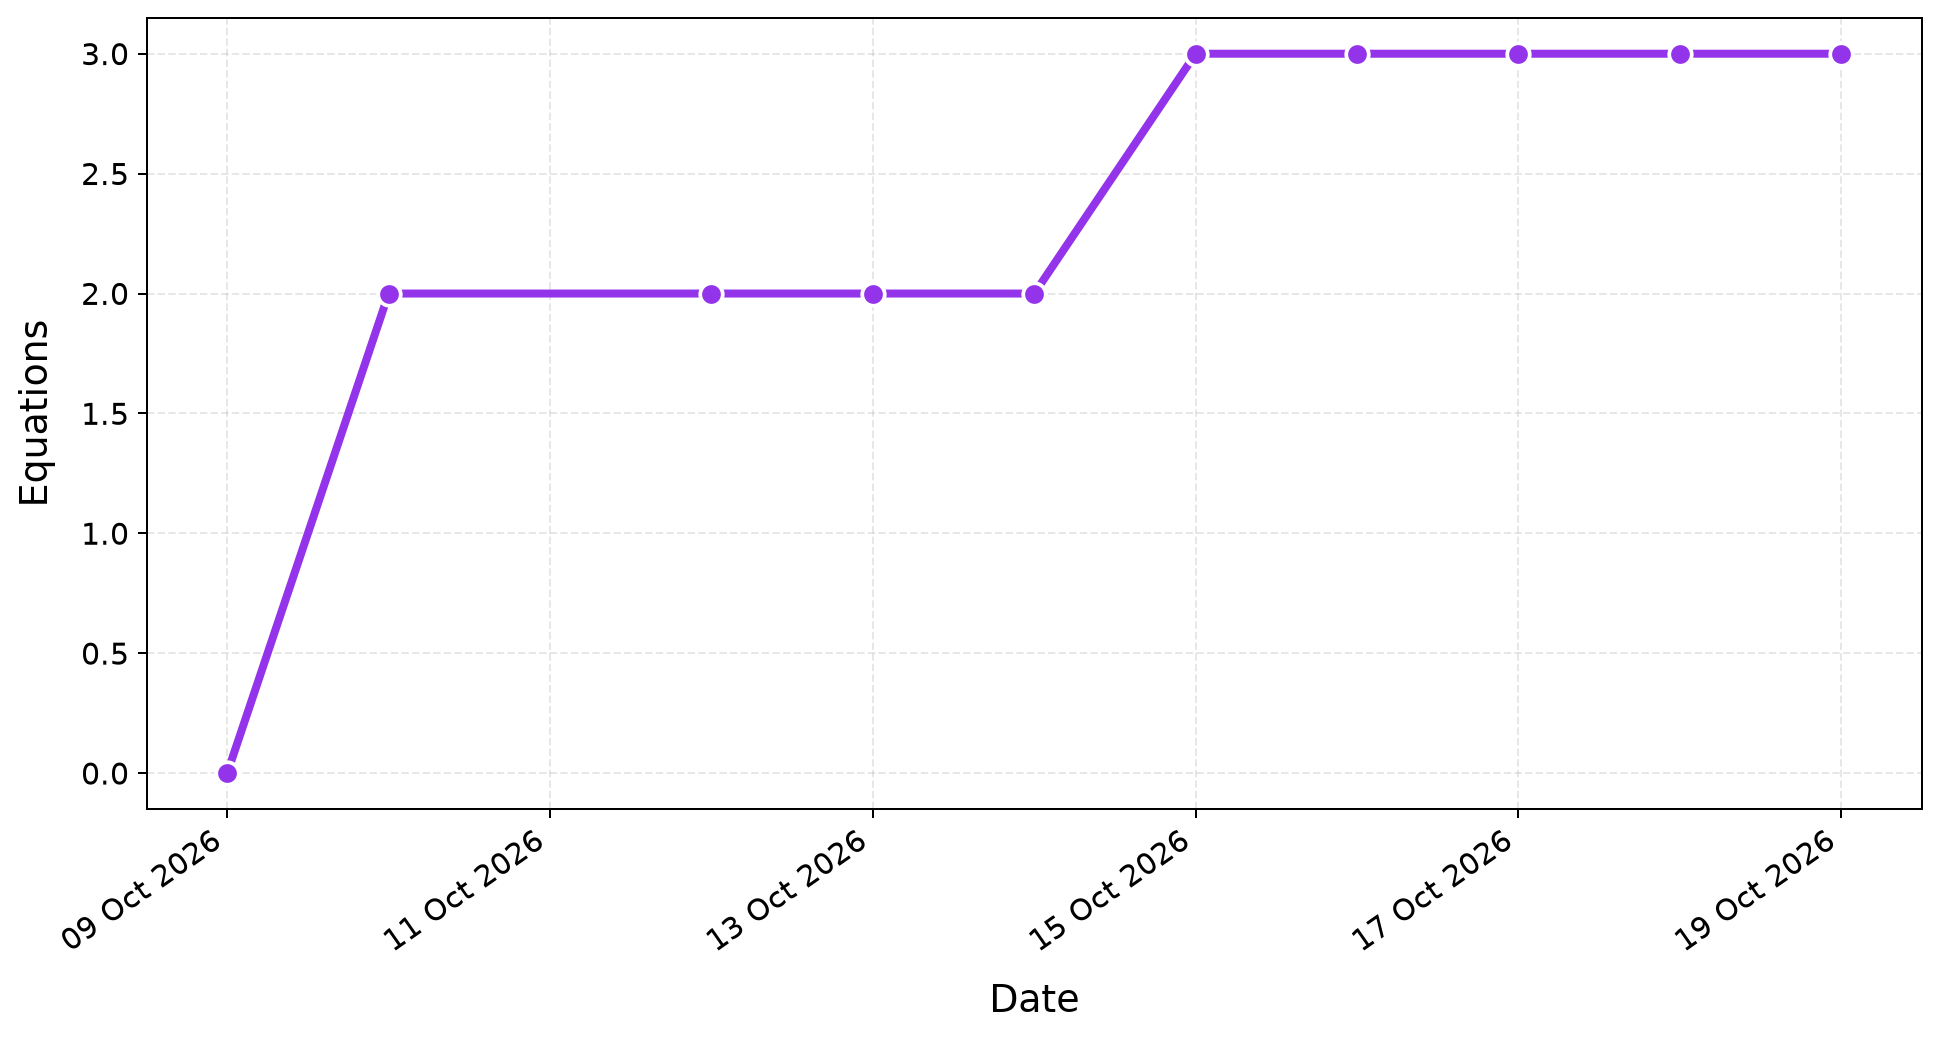
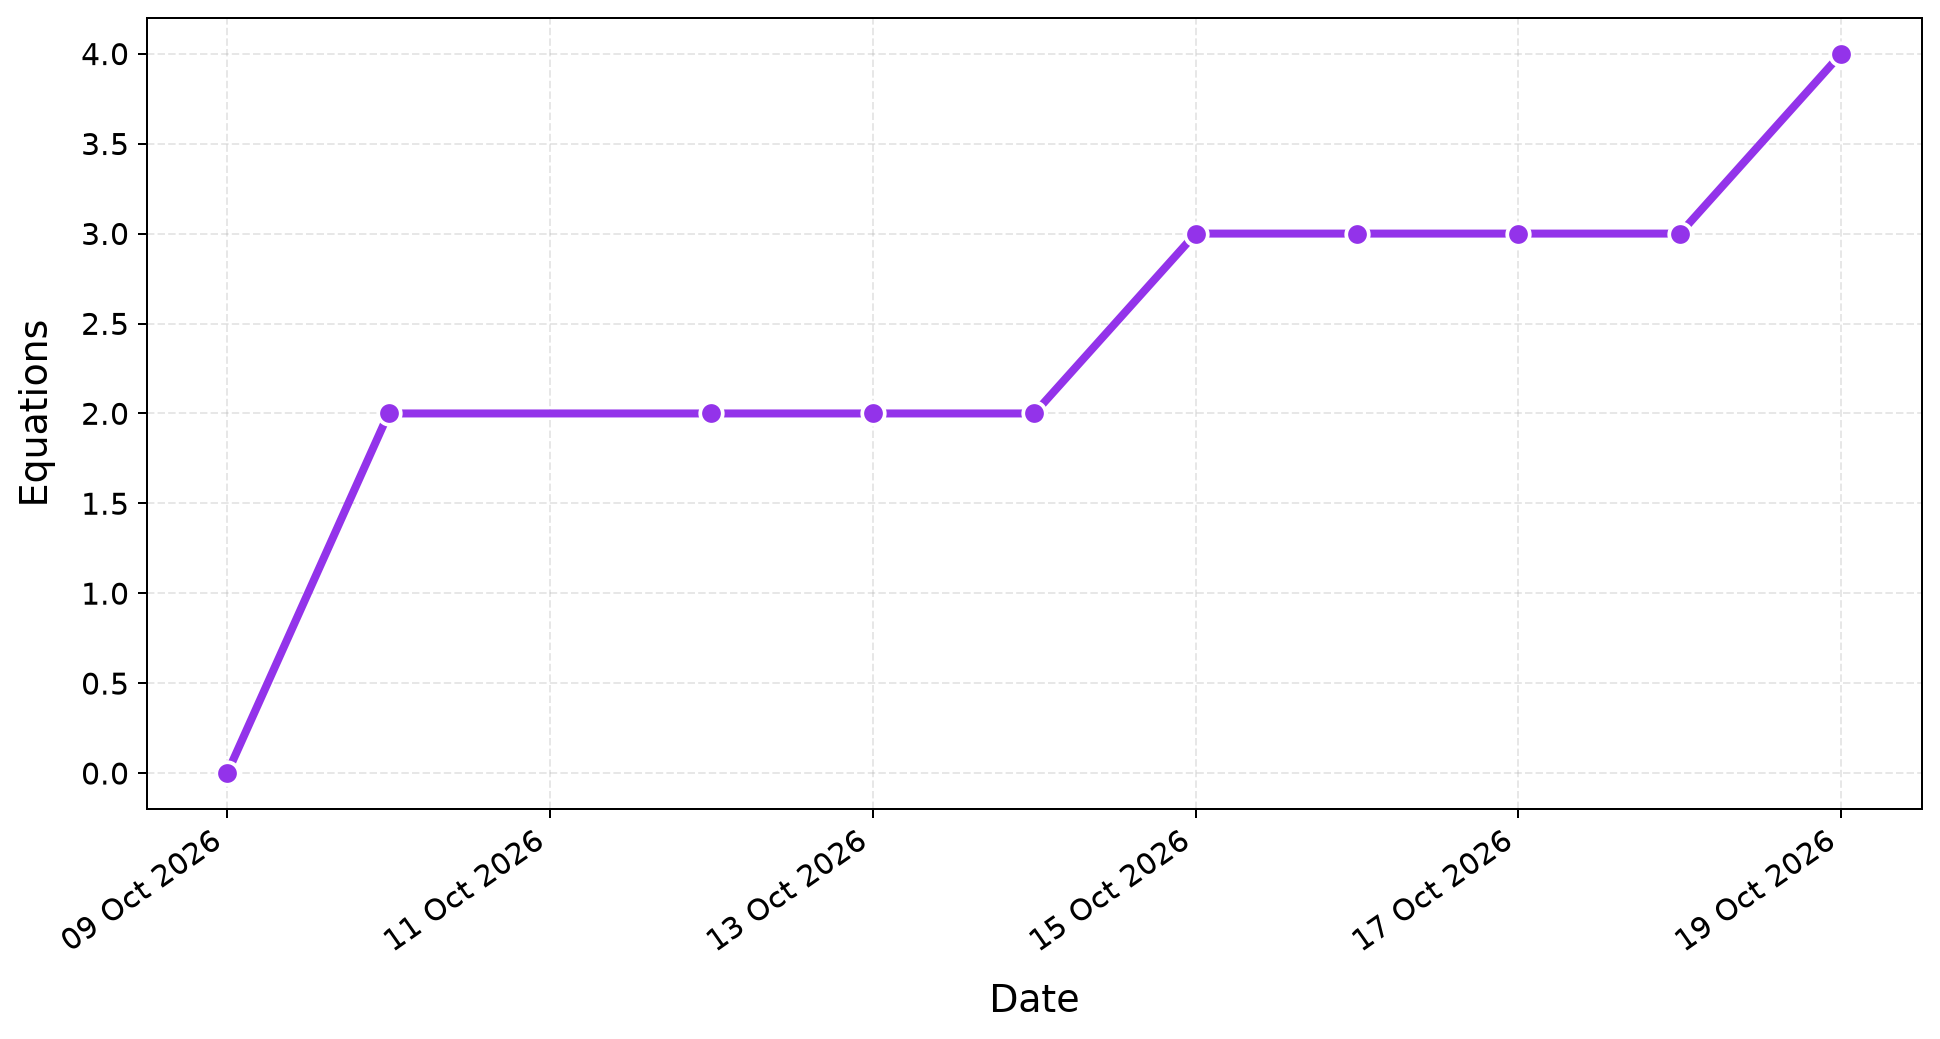
Update thesis progress dashboard

diff --git a/index.html b/index.html
@@ -12,7 +12,7 @@
     <p class="eyebrow">THESIS WRITING LOG</p>
     <h1>Thesis Progress</h1>
     <p>A visual overview of writing progress over time.</p>
-    <p class="updated">Last updated: 2026-10-19 11:16 CEST</p>
+    <p class="updated">Last updated: 2026-10-19 18:41 CEST</p>
   </header>
 
   <main>
@@ -28,10 +28,10 @@
 
         <article class="summary-card">
           <p class="summary-label">Total words</p>
-          <p class="summary-total">2,969</p>
+          <p class="summary-total">3,186</p>
           <p class="summary-change"
              style="color: #16A34A;">
-            +8 this week
+            +225 this week
           </p>
         </article>
         
@@ -48,10 +48,10 @@
 
         <article class="summary-card">
           <p class="summary-label">Total equations</p>
-          <p class="summary-total">3</p>
+          <p class="summary-total">4</p>
           <p class="summary-change"
-             style="color: #64748B;">
-            No change this week
+             style="color: #16A34A;">
+            +1 this week
           </p>
         </article>
         
@@ -71,7 +71,7 @@
 
     <!-- Weekly progress for smaller metrics -->
     <section>
-      <h2 class="weekly-heading">Weekly progress [13.10.2026–19.10.2026]</h2>
+      <h2 class="weekly-heading">Weekly progress [19.10.2026–25.10.2026]</h2>
       <p class="description">
         Changes in equations, figures, tables, citations, and
         cross-references between recorded weeks.
